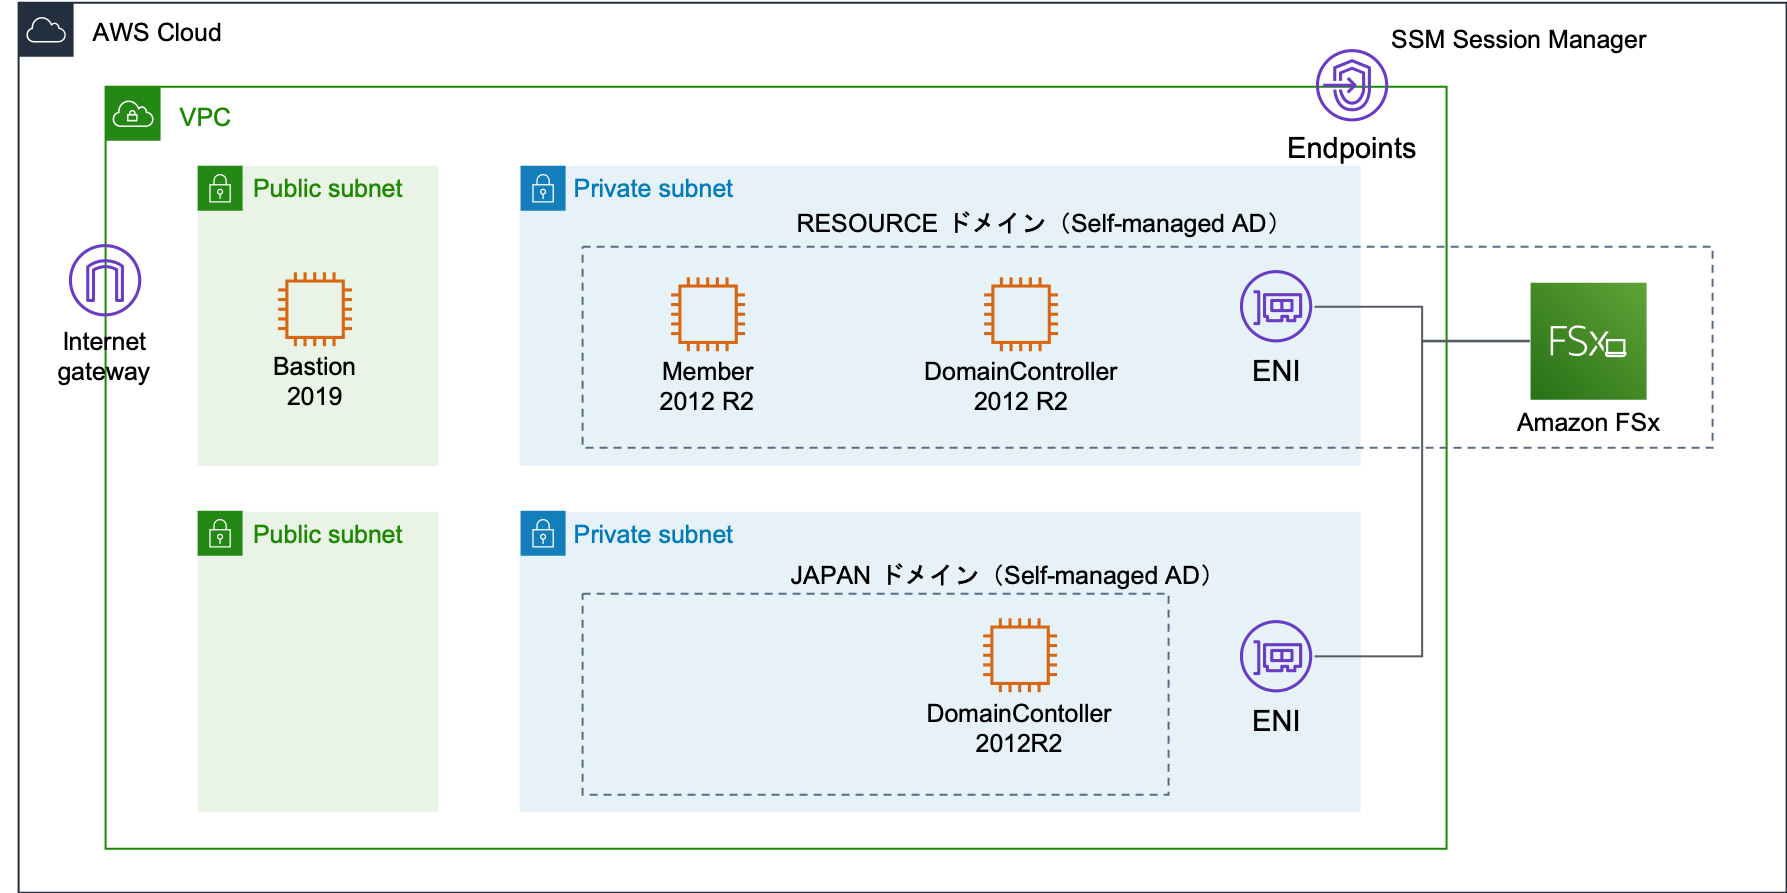
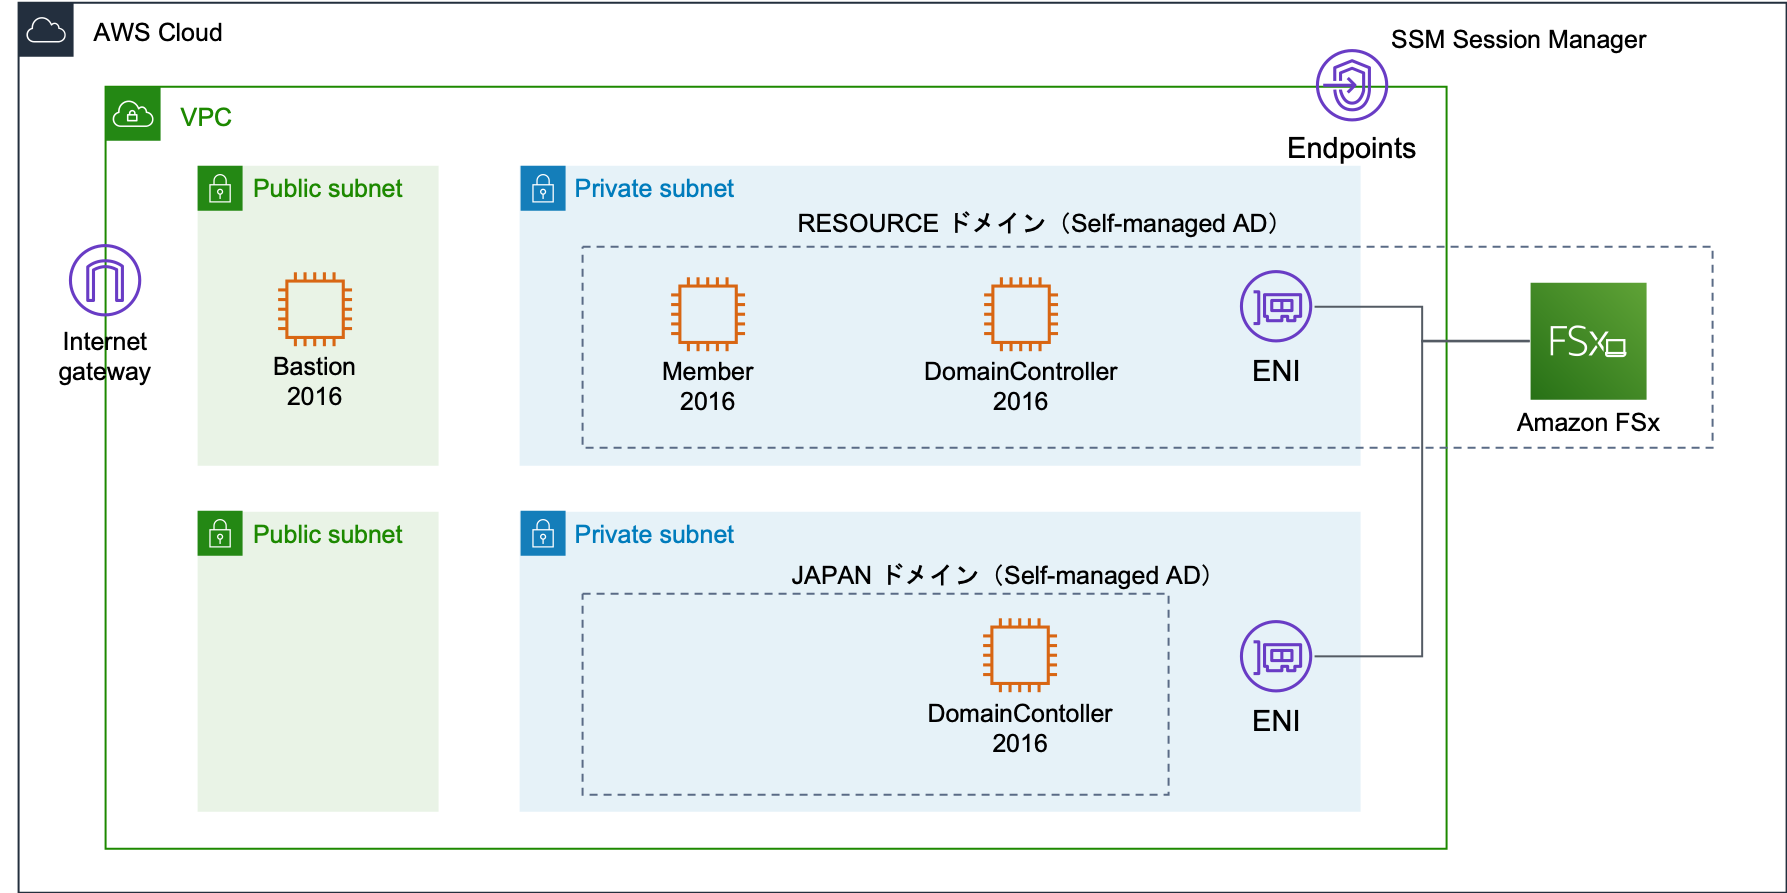
update

diff --git a/cdksample/resource_domain_stack.py b/cdksample/resource_domain_stack.py
@@ -18,7 +18,7 @@ class ResourceDomainStack(core.Stack):
             self, 'DomainController',
             instance_type=ec2.InstanceType('t3.large'),
             machine_image=ec2.MachineImage.latest_windows(
-                version=ec2.WindowsVersion.WINDOWS_SERVER_2012_R2_RTM_JAPANESE_64BIT_BASE),
+                version=ec2.WindowsVersion.WINDOWS_SERVER_2016_JAPANESE_FULL_BASE),
             key_name=self.node.try_get_context('key_name'),
             vpc=vpc,
             vpc_subnets=ec2.SubnetSelection(subnet_type=ec2.SubnetType.ISOLATED),
@@ -32,7 +32,7 @@ class ResourceDomainStack(core.Stack):
             self, 'Member',
             instance_type=ec2.InstanceType('t3.large'),
             machine_image=ec2.MachineImage.latest_windows(
-                version=ec2.WindowsVersion.WINDOWS_SERVER_2012_R2_RTM_JAPANESE_64BIT_BASE),
+                version=ec2.WindowsVersion.WINDOWS_SERVER_2016_JAPANESE_FULL_BASE),
             key_name=self.node.try_get_context('key_name'),
             vpc=vpc,
             vpc_subnets=ec2.SubnetSelection(subnet_type=ec2.SubnetType.ISOLATED),

diff --git a/cdksample/japan_domain_stack.py b/cdksample/japan_domain_stack.py
@@ -18,7 +18,7 @@ class JapanDomainStack(core.Stack):
             self, 'DomainController',
             instance_type=ec2.InstanceType('t3.large'),
             machine_image=ec2.MachineImage.latest_windows(
-                version=ec2.WindowsVersion.WINDOWS_SERVER_2012_R2_RTM_JAPANESE_64BIT_BASE),
+                version=ec2.WindowsVersion.WINDOWS_SERVER_2016_JAPANESE_FULL_BASE),
             key_name=self.node.try_get_context('key_name'),
             vpc=vpc,
             vpc_subnets=ec2.SubnetSelection(subnet_type=ec2.SubnetType.ISOLATED),

diff --git a/cdksample/bastion_stack.py b/cdksample/bastion_stack.py
@@ -19,7 +19,7 @@ class BastionStack(core.Stack):
             self, 'Bastion',
             instance_type=ec2.InstanceType('t3.large'),
             machine_image=ec2.MachineImage.latest_windows(
-                version=ec2.WindowsVersion.WINDOWS_SERVER_2019_JAPANESE_FULL_BASE),
+                version=ec2.WindowsVersion.WINDOWS_SERVER_2016_JAPANESE_FULL_BASE),
             key_name=self.node.try_get_context('key_name'),
             vpc=vpc,
             vpc_subnets=ec2.SubnetSelection(subnet_type=ec2.SubnetType.PUBLIC),

diff --git a/README.md b/README.md
@@ -68,10 +68,10 @@ pip install -r requirements.txt
 
 ### 環境に合わせたカスタマイズ
 
-`cdk.context.sample.json`を`cdk.context.json`としてコピーし、パラメータをいい感じに設定して下さい。
+`cdk.sample.json`を`cdk.json`としてコピーし、パラメータをいい感じに設定して下さい。
 
 ```shell
-cp cdk.context.sample.json cdk.context.json
+cp cdk.sample.json cdk.json
 ```
 
 ### デプロイ
@@ -114,6 +114,8 @@ Get-WindowsFeature
 
 ドメインコントローラーに昇格させます。セーフモード用のパスワードを聞かれるので入力します。
 
+（ドメインの機能レベル2012R2の場合）
+
 ```powershell
 #
 # AD DS 配置用の Windows PowerShell スクリプト
@@ -127,6 +129,28 @@ Install-ADDSForest `
 -DomainName "resource.example.com" `
 -DomainNetbiosName "RESOURCE" `
 -ForestMode "Win2012R2" `
+-InstallDns:$true `
+-LogPath "C:\Windows\NTDS" `
+-NoRebootOnCompletion:$false `
+-SysvolPath "C:\Windows\SYSVOL" `
+-Force:$true
+```
+
+（ドメインの機能レベル2016の場合）
+
+```
+#
+# AD DS 配置用の Windows PowerShell スクリプト
+#
+
+Import-Module ADDSDeployment
+Install-ADDSForest `
+-CreateDnsDelegation:$false `
+-DatabasePath "C:\Windows\NTDS" `
+-DomainMode "WinThreshold" `
+-DomainName "resource.example.com" `
+-DomainNetbiosName "RESOURCE" `
+-ForestMode "WinThreshold" `
 -InstallDns:$true `
 -LogPath "C:\Windows\NTDS" `
 -NoRebootOnCompletion:$false `
@@ -205,6 +229,8 @@ Get-WindowsFeature
 
 ドメインコントローラーに昇格させます。セーフモード用のパスワードを聞かれるので入力します。
 
+（ドメインの機能レベル2012R2の場合）
+
 ```powershell
 #
 # AD DS 配置用の Windows PowerShell スクリプト
@@ -218,6 +244,28 @@ Install-ADDSForest `
 -DomainName "japan.example.com" `
 -DomainNetbiosName "JAPAN" `
 -ForestMode "Win2012R2" `
+-InstallDns:$true `
+-LogPath "C:\Windows\NTDS" `
+-NoRebootOnCompletion:$false `
+-SysvolPath "C:\Windows\SYSVOL" `
+-Force:$true
+```
+
+（ドメインの機能レベル2016の場合）
+
+```
+#
+# AD DS 配置用の Windows PowerShell スクリプト
+#
+
+Import-Module ADDSDeployment
+Install-ADDSForest `
+-CreateDnsDelegation:$false `
+-DatabasePath "C:\Windows\NTDS" `
+-DomainMode "WinThreshold" `
+-DomainName "japan.example.com" `
+-DomainNetbiosName "JAPAN" `
+-ForestMode "WinThreshold" `
 -InstallDns:$true `
 -LogPath "C:\Windows\NTDS" `
 -NoRebootOnCompletion:$false `
@@ -421,4 +469,78 @@ New-DfsnRoot -Path $DFSRootPath -Type DomainV2 -TargetPath $DFSRootSharedPath
 
 JAPANのドメインコントローラーにログインして確認します。
 
-Publ
+## Amazon FSx CLIの実行
+
+- [Getting Started with the Amazon FSx CLI for Remote Management on PowerShell](https://docs.aws.amazon.com/fsx/latest/WindowsGuide/remote-pwrshell.html) 
+
+FSxのPowerShell用のエンドポイントを確認します。
+
+```
+aws fsx describe-file-systems | jq -r '.FileSystems[].WindowsConfiguration.RemoteAdministrationEndpoint'
+```
+
+RESOURCEのドメインコントローラーにAdministratorでログインし、PowerShellを実行します。
+
+```powershell
+enter-pssession -ComputerName amznfsxjcdhtmu2.resource.example.com -ConfigurationName FsxRemoteAdmin -sessionoption (New-PSSessionOption -uiCulture "en-US")
+```
+
+クォータを有効にします。単位はバイトです。
+
+```powershell
+Enable-FSxUserQuotas -Track -DefaultLimit 2000000 -DefaultWarningLimit 1000000
+Enable-FSxUserQuotas -Enforce -DefaultLimit 4000000 -DefaultWarningLimit 3000000
+```
+
+設定を確認します。
+
+```powershell
+Get-FSxUserQuotaSettings
+```
+
+```powershell
+[amznfsxjcdhtmu2.resource.example.com]: PS>Get-FSxUserQuotaSettings
+
+DefaultWarningLimit DefaultLimit State
+------------------- ------------ -----
+            3000000      4000000 Enforce
+
+```
+
+user1@japan.example.comのクオータを設定します。
+
+```shell
+Set-FSxUserQuotas -Domain "resource.example.com" -Name "user1" -Limit 60000 -WarningLimit 40000
+Set-FSxUserQuotas -Domain "resource.example.com" -Name "group1" -Limit 60000 -WarningLimit 40000
+Set-FSxUserQuotas -Domain "japan.example.com" -Name "user1" -Limit 60000 -WarningLimit 40000
+```
+
+設定を確認します。
+
+```powershell
+[amznfsxjcdhtmu2.resource.example.com]: PS>Get-FSxUserQuotaEntries
+
+
+WarningLimit  : 40000
+DiskSpaceUsed : 0
+QuotaVolume   : Win32_LogicalDisk (DeviceID = "D:")
+Limit         : 60000
+Status        : OK
+User          : Win32_Account (Name = "user1", Domain = "RESOURCE")
+
+WarningLimit  : 40000
+DiskSpaceUsed : 61440
+QuotaVolume   : Win32_LogicalDisk (DeviceID = "D:")
+Limit         : 60000
+Status        : Exceeded
+User          : Win32_Account (Name = "user1", Domain = "JAPAN")
+
+WarningLimit  : 40000
+DiskSpaceUsed : 0
+QuotaVolume   : Win32_LogicalDisk (DeviceID = "D:")
+Limit         : 60000
+Status        : OK
+User          : Win32_Account (Name = "group1", Domain = "RESOURCE")
+
+
+```
